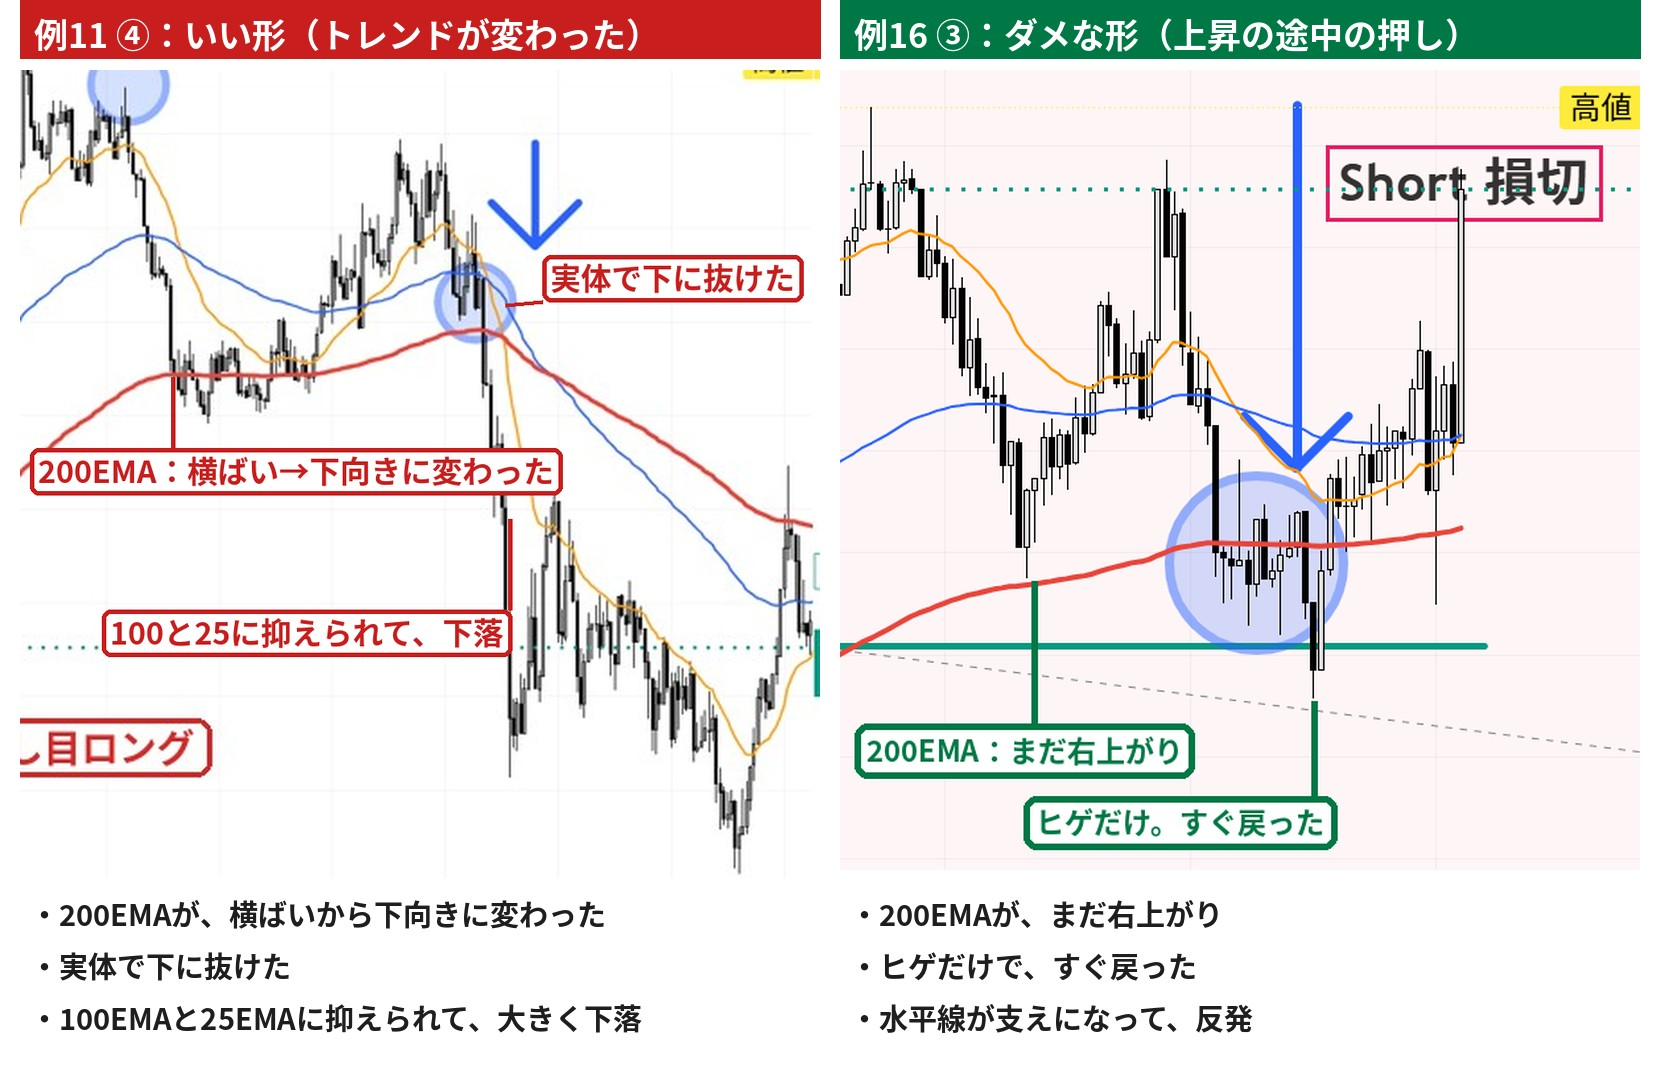
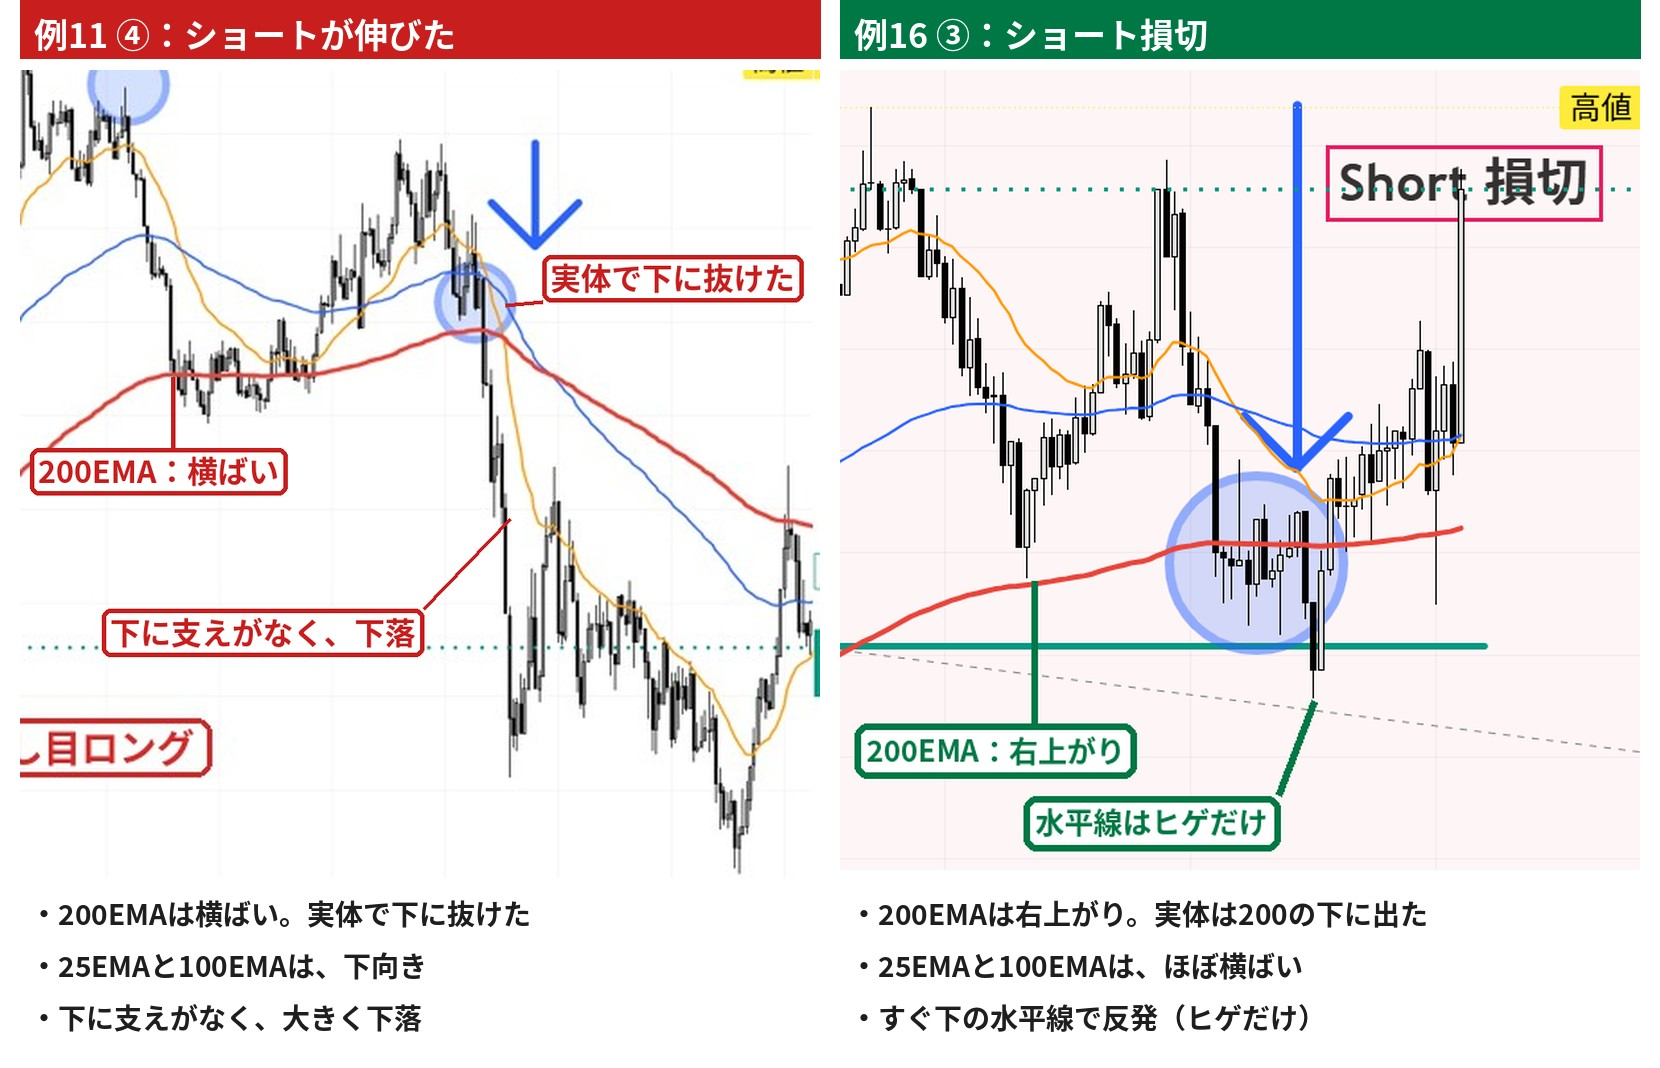
例16: 比較図の内容を訂正
Claude-Session: https://claude.ai/code/session_01HxS9YaEfLR2yPnioVsHz63

diff --git a/reversal.html b/reversal.html
@@ -96,7 +96,7 @@ body.lb-open { overflow: hidden; }
     </ul>
     <h3 class="part">例11 ④との違い</h3>
     <figure class="pic wide">
-      <a href="methods/rev-compare.jpg"><img src="methods/rev-compare.jpg" alt="左：例11 ④（200EMAが下向きに変わり、実体で下に抜けた）、右：例16 ③（200EMAが右上がりで、ヒゲだけで戻った）" loading="lazy"></a>
+      <a href="methods/rev-compare.jpg"><img src="methods/rev-compare.jpg" alt="左：例11 ④（200EMAは横ばいで、実体で下に抜けた。下に支えなし）、右：例16 ③（200EMAは右上がり。すぐ下の水平線で反発）" loading="lazy"></a>
     </figure>
   </section>
 
